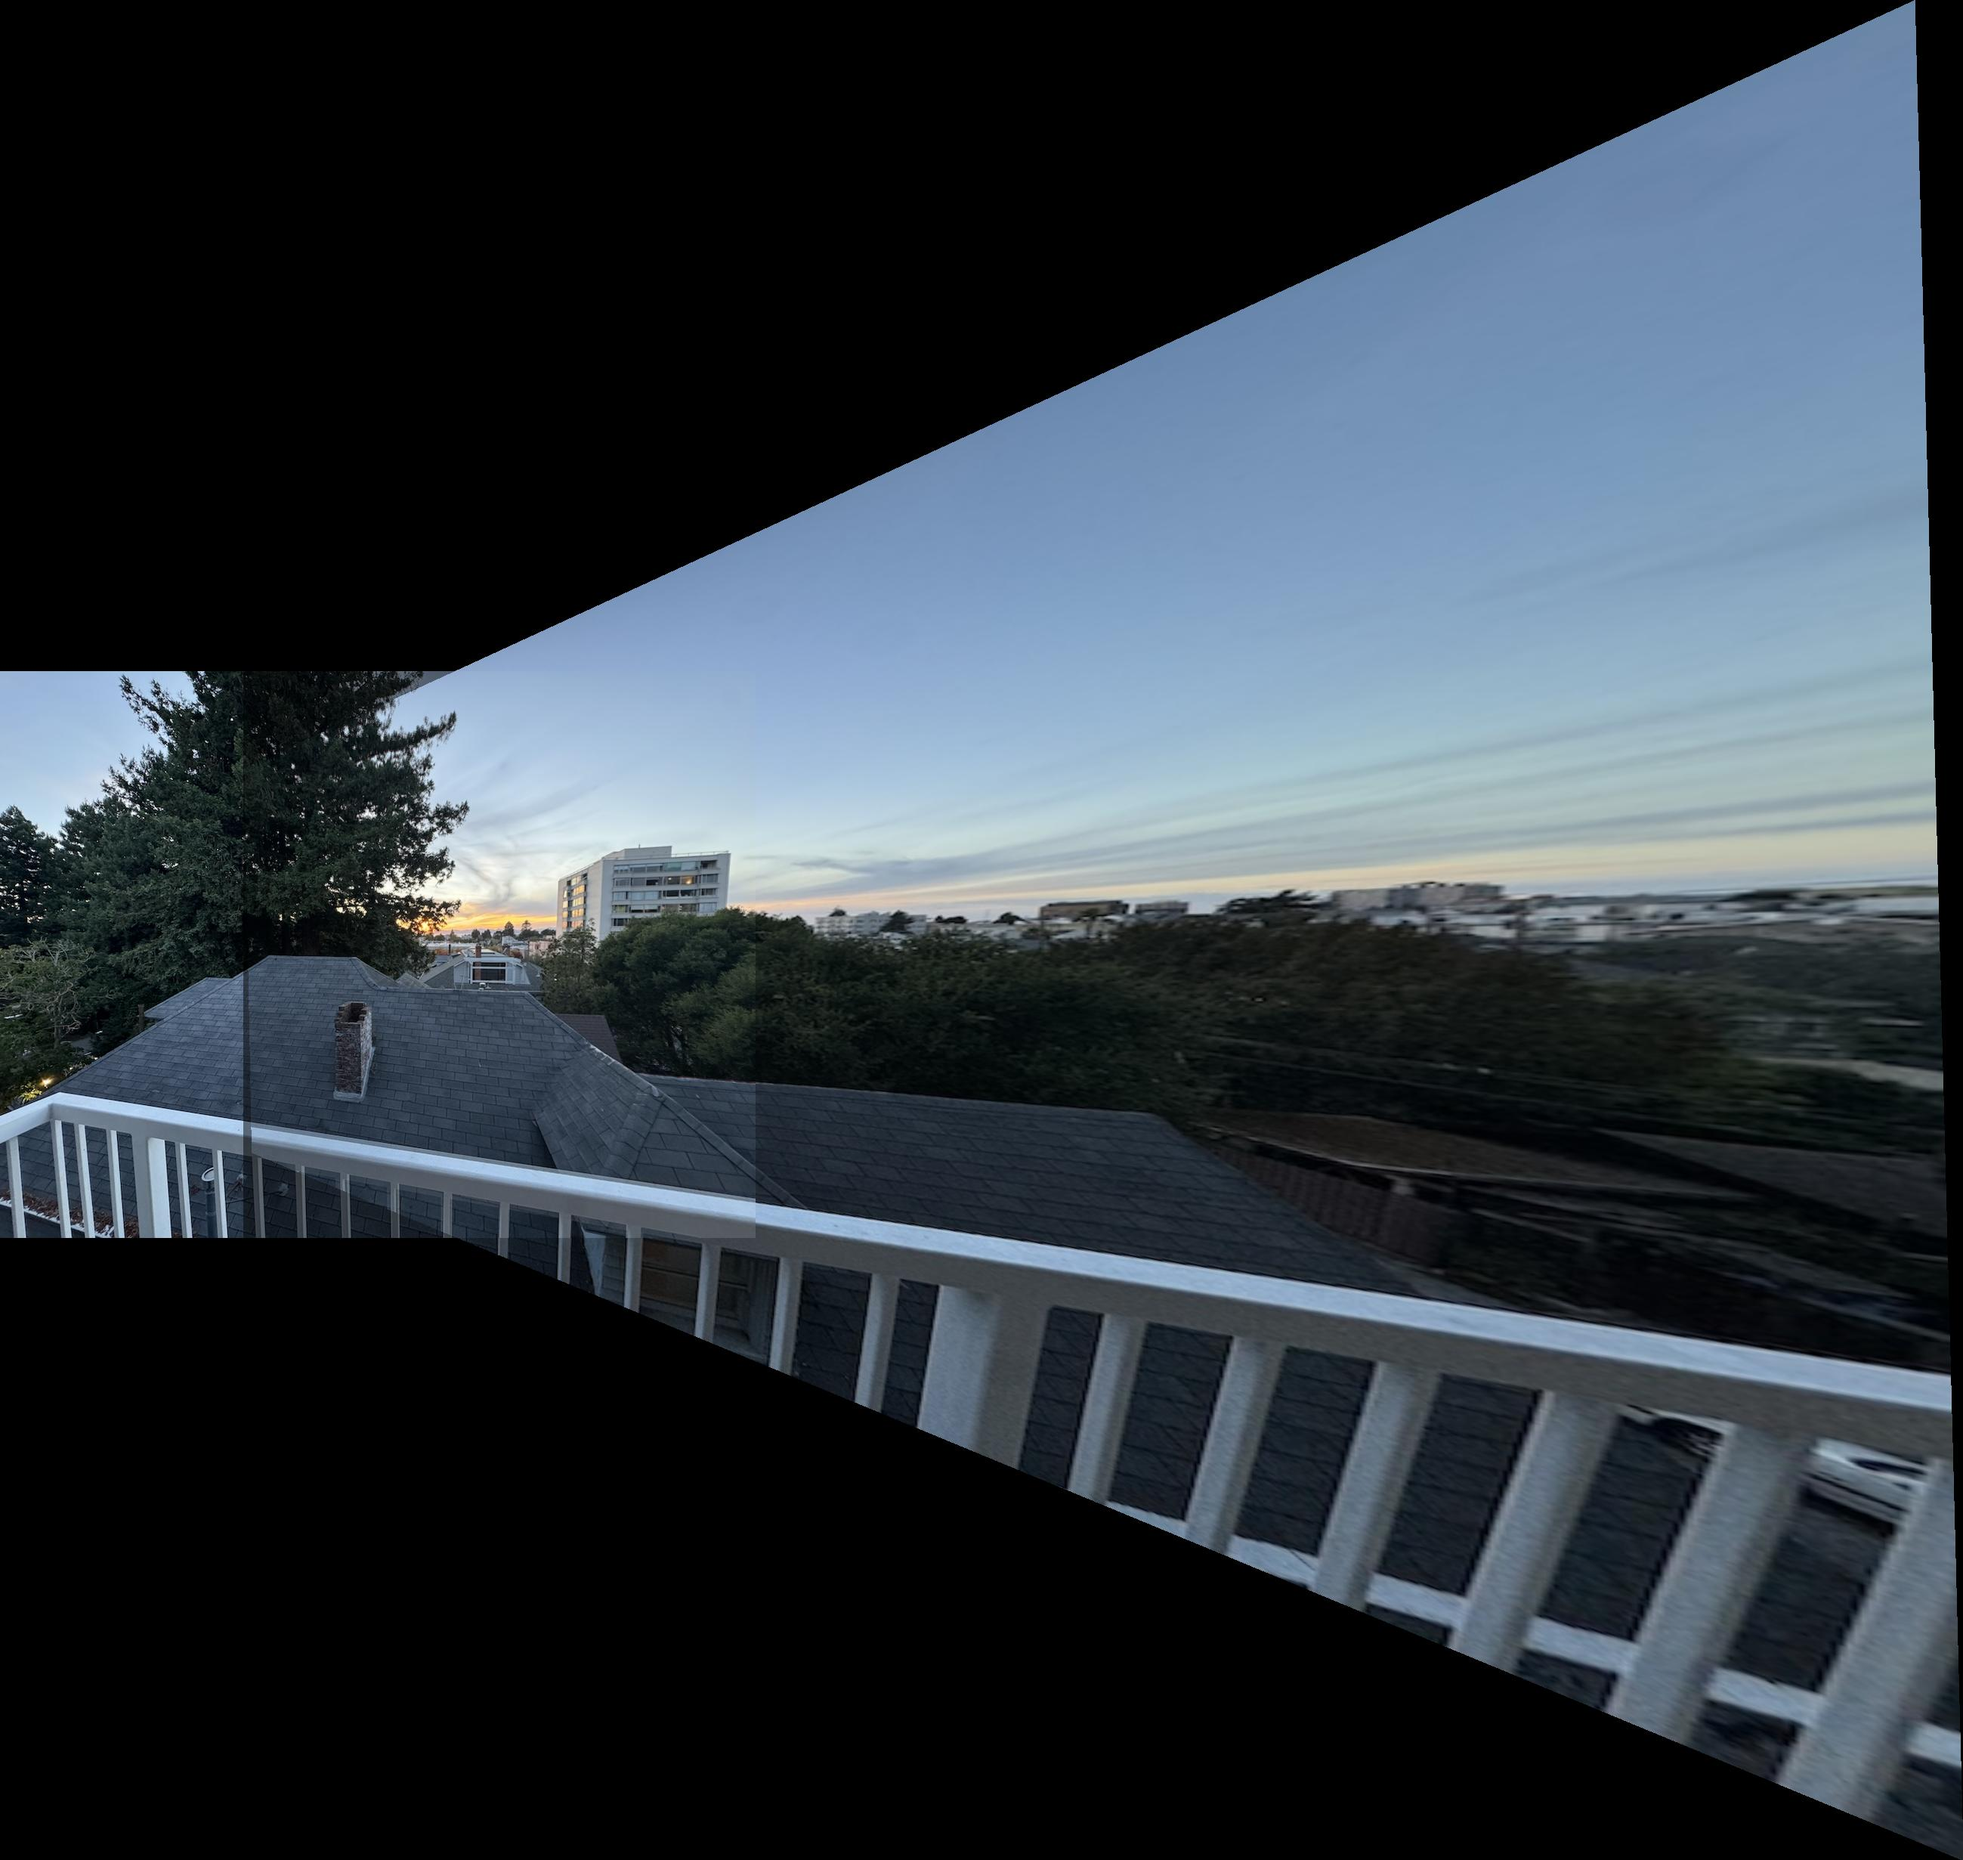
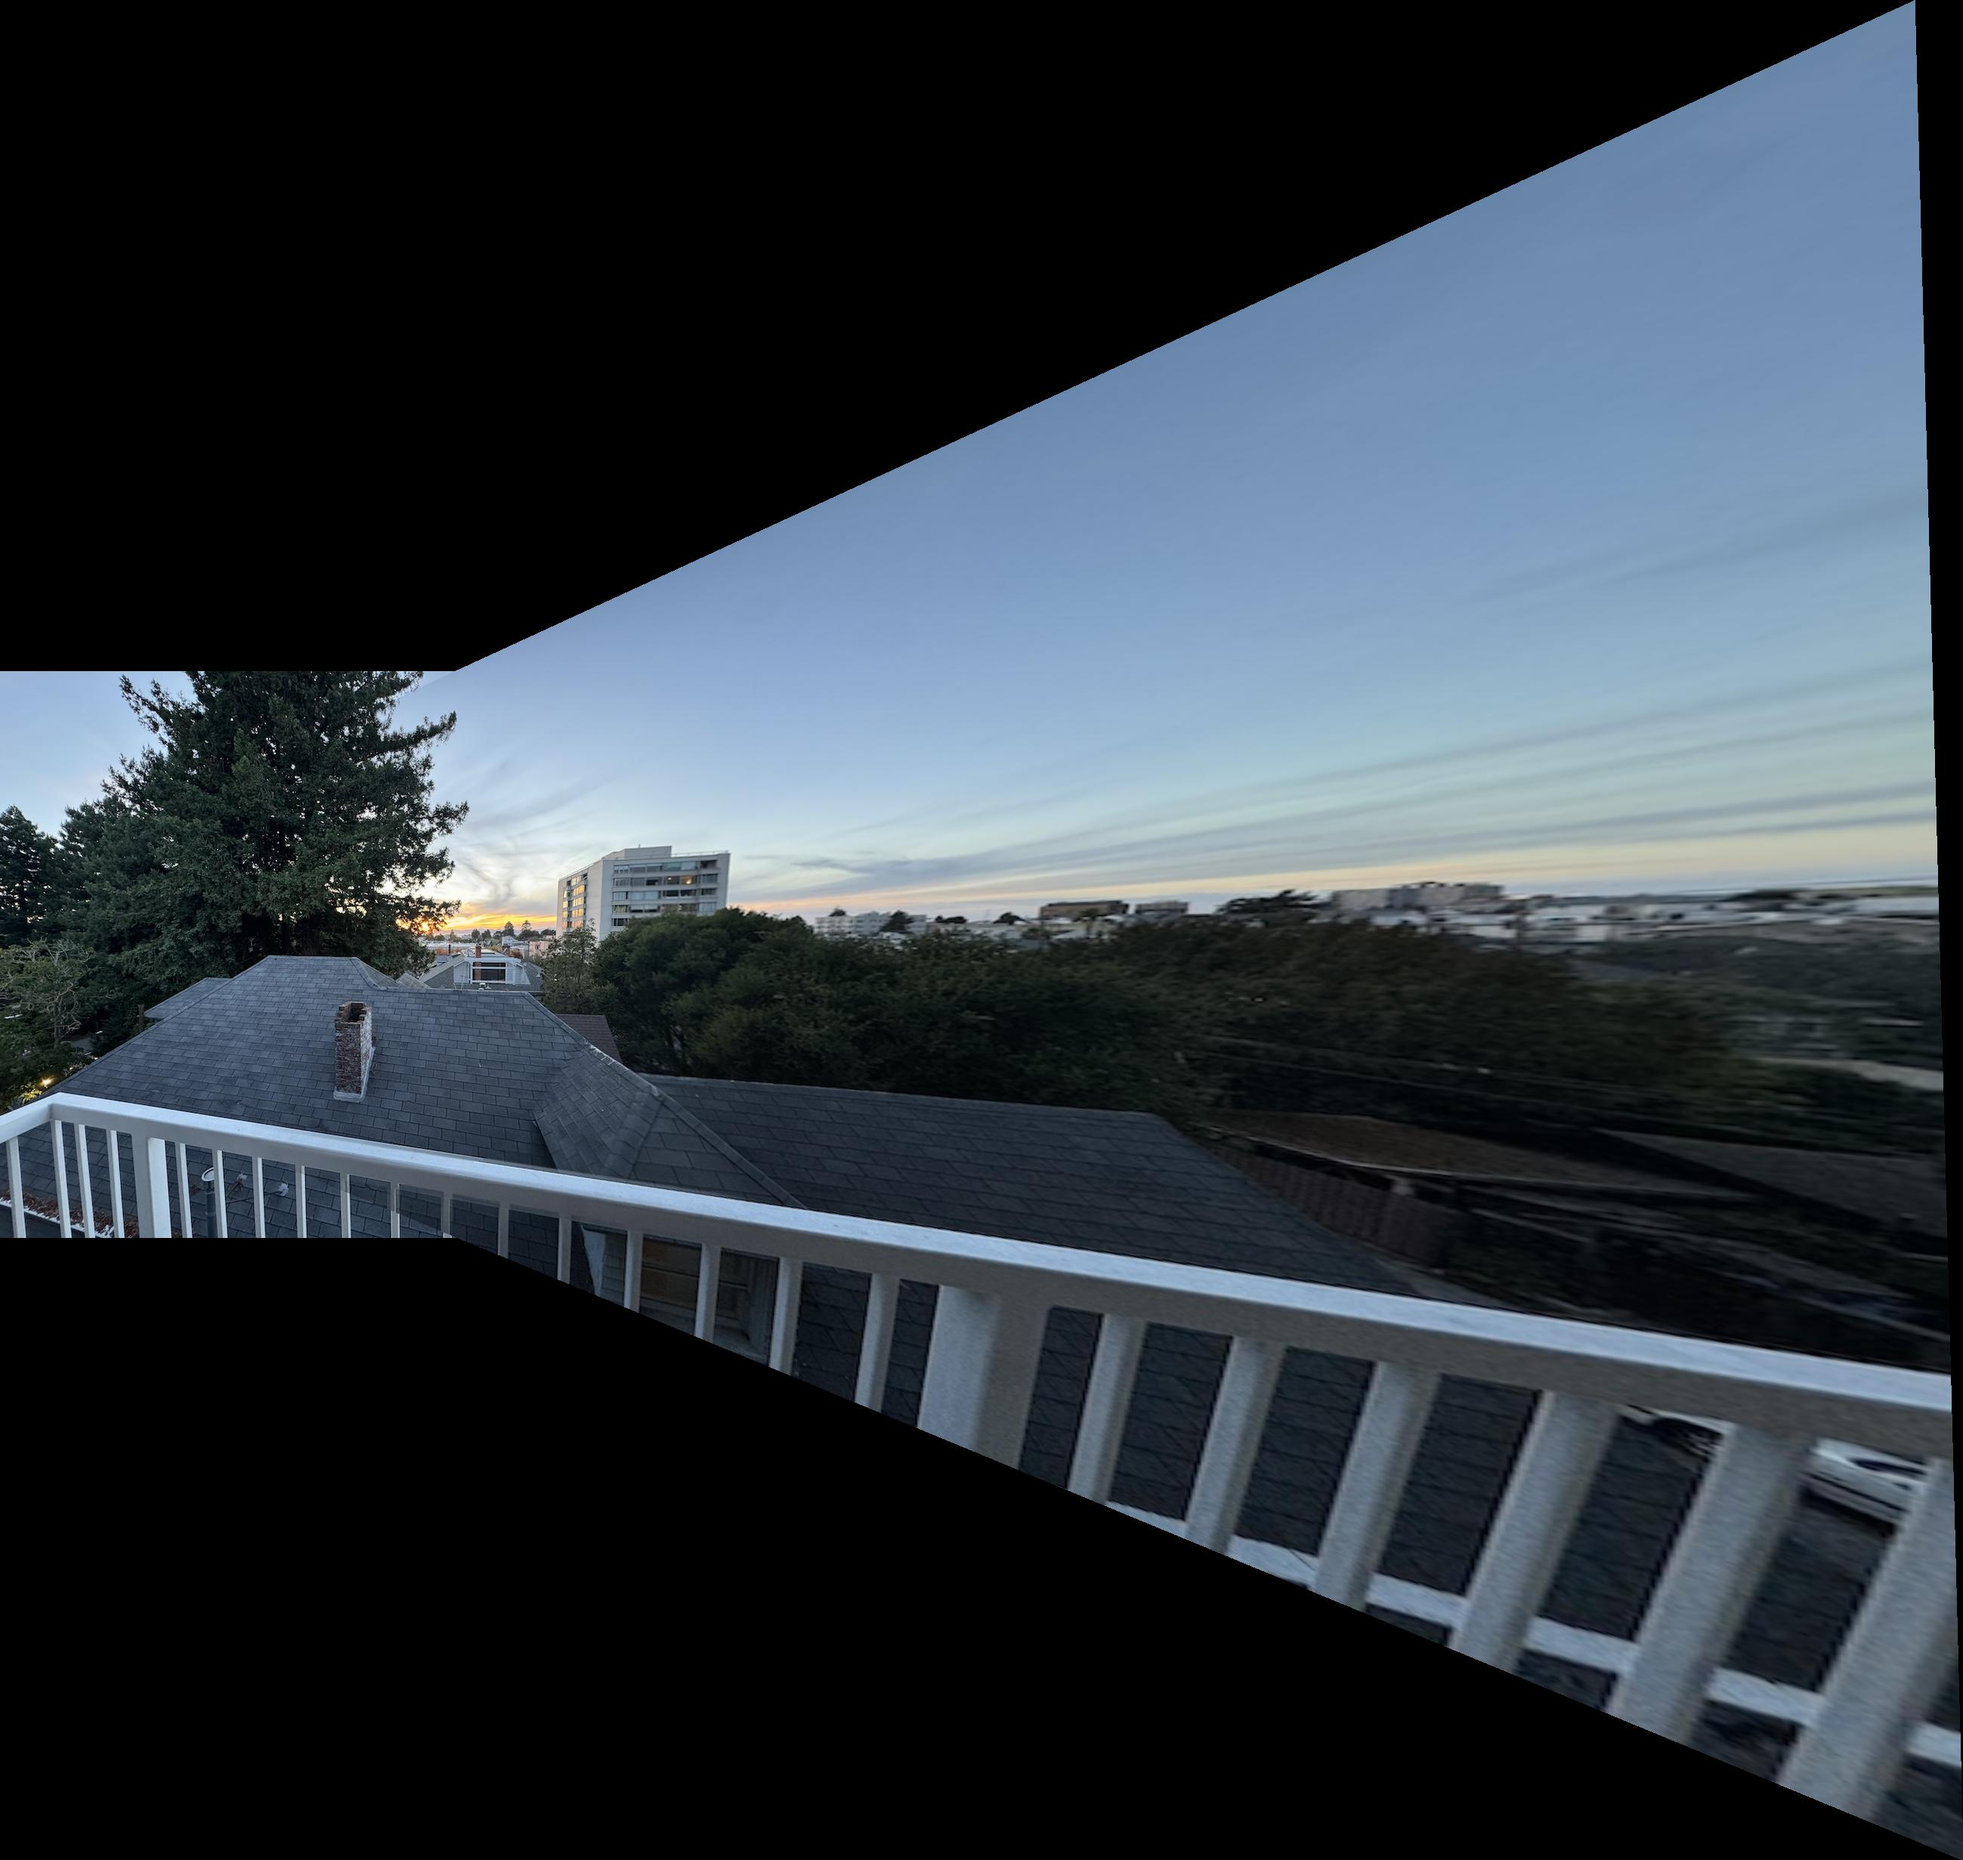
done with proj4a

Changed region(s): [[0.1247, 0.3397, 0.2494, 0.6794], [0.343, 0.6485, 0.3741, 0.6794]]

diff --git a/code/utils.py b/code/utils.py
@@ -1,8 +1,10 @@
 import numpy as np
 from scipy.interpolate import RegularGridInterpolator
 import matplotlib.pyplot as plt
-import skimage.io as skio
+from scipy.ndimage import distance_transform_edt
 import cv2
+from scipy.signal import convolve2d
+import skimage.io as skio
 
 
 # ===== Helpers ======
@@ -44,6 +46,45 @@ def display_img_with_keypoints(img, keypoints):
     x_coords, y_coords = zip(*keypoints)
     plt.scatter(x_coords, y_coords, color="red", marker="o", s=10)
     plt.show()
+
+
+def distance_transform(im):
+    mask = np.ones((im.shape[0], im.shape[1]), dtype=np.uint8)
+
+    mask[0, :] = 0
+    mask[-1, :] = 0
+    mask[:, 0] = 0
+    mask[:, -1] = 0
+
+    distance = distance_transform_edt(mask)
+    distance_rgb = np.stack([distance] * 3, axis=-1)
+
+    return distance_rgb
+
+
+def gaussian_blur(image, ksize=5, sigma=1):
+    gaussian_1d = cv2.getGaussianKernel(ksize, sigma)
+    gaussian_2d = np.outer(gaussian_1d, gaussian_1d.T)
+
+    if len(image.shape) == 2:  # Grayscale image
+        blurred_image = convolve2d(image, gaussian_2d, mode="same")
+
+    elif len(image.shape) == 3:  # RGB image
+        blurred_image = []
+        for i in range(3):
+            blurred_image.append(convolve2d(image[:, :, i], gaussian_2d, mode="same"))
+        blurred_image = np.dstack([channel for channel in blurred_image])
+
+    return blurred_image
+
+
+def pad_image(image, start_y, start_x, shape):
+    padded_image = np.zeros(shape, dtype=image.dtype)
+    end_y = start_y + image.shape[0]
+    end_x = start_x + image.shape[1]
+
+    padded_image[start_y:end_y, start_x:end_x, :] = image
+    return padded_image
 
 
 # ===== Algorithms =====
@@ -116,40 +157,65 @@ def rectify_image(im, im_pts, rect_pts):
 # Returns a mosaic of two images, where the second image is projected onto the first
 def build_mosaic(im1, im2, im1_pts, im2_pts):
     H = compute_homography(np.array(im2_pts), np.array(im1_pts))
-    warped_im2, dx, dy = warp_image(im2, H)
+    im2, dx, dy = warp_image(im2, H)
 
     im1_min_x, im1_max_x = 0, im1.shape[1] - 1
     im1_min_y, im1_max_y = 0, im1.shape[0] - 1
-    warped_im2_min_x, warped_im2_max_x = dx, dx + warped_im2.shape[1] - 1
-    warped_im2_min_y, warped_im2_max_y = dy, dy + warped_im2.shape[0] - 1
+    im2_min_x, im2_max_x = dx, dx + im2.shape[1] - 1
+    im2_min_y, im2_max_y = dy, dy + im2.shape[0] - 1
 
-    min_x = min(im1_min_x, warped_im2_min_x)
-    max_x = max(im1_max_x, warped_im2_max_x)
-    min_y = min(im1_min_y, warped_im2_min_y)
-    max_y = max(im1_max_y, warped_im2_max_y)
+    min_x = min(im1_min_x, im2_min_x)
+    max_x = max(im1_max_x, im2_max_x)
+    min_y = min(im1_min_y, im2_min_y)
+    max_y = max(im1_max_y, im2_max_y)
 
-    ret = np.zeros((max_y - min_y + 1, max_x - min_x + 1, 3))
+    ret = np.zeros((max_y - min_y + 1, max_x - min_x + 1, 3), dtype=np.float64)
     shift_x, shift_y = -min_x, -min_y
 
-    # Shift and place im1 into ret
-    ret[shift_y : shift_y + im1.shape[0], shift_x : shift_x + im1.shape[1]] = im1
+    # Create all needed padded data structures and overlap mask
+    im1_padded = pad_image(im1, shift_y, shift_x, ret.shape)
+    im2_padded = pad_image(im2, shift_y + dy, shift_x + dx, ret.shape)
 
-    # Shift and place warped_im2 into the correct position in ret
-    warped_y_start = warped_im2_min_y + shift_y
-    warped_y_end = warped_y_start + warped_im2.shape[0]
-    warped_x_start = warped_im2_min_x + shift_x
-    warped_x_end = warped_x_start + warped_im2.shape[1]
+    dt1_padded = pad_image(distance_transform(im1), shift_y, shift_x, ret.shape)
+    dt2_padded = pad_image(
+        distance_transform(im2), shift_y + dy, shift_x + dx, ret.shape
+    )
 
-    # Extract the region where warped_im2 will be placed
-    ret_region = ret[warped_y_start:warped_y_end, warped_x_start:warped_x_end]
+    epsilon = 1e-10  # A small value to prevent division by zero
+    dt1_padded /= np.max(dt1_padded) + epsilon
+    dt2_padded /= np.max(dt2_padded) + epsilon
 
-    # Find non-zero pixels in ret_region (overlapping pixels)
-    overlap_mask = ret_region != 0
+    im1_low_freq = gaussian_blur(im1)
+    im2_low_freq = gaussian_blur(im2)
 
-    # Average overlapping pixels
-    ret_region[overlap_mask] = (ret_region[overlap_mask] + warped_im2[overlap_mask]) / 2
+    im1_low_freq_padded = pad_image(im1_low_freq, shift_y, shift_x, ret.shape)
+    im2_low_freq_padded = pad_image(im2_low_freq, shift_y + dy, shift_x + dx, ret.shape)
+    im1_high_freq_padded = im1_padded - im1_low_freq_padded
+    im2_high_freq_padded = im2_padded - im2_low_freq_padded
 
-    # Assign non-overlapping pixels directly
-    ret_region[~overlap_mask] = warped_im2[~overlap_mask]
+    mask1 = np.sum(im1_padded, axis=-1) > 0
+    mask2 = np.sum(im2_padded, axis=-1) > 0
+    overlap_mask = np.logical_and(mask1, mask2)
 
-    return ret.astype(np.uint8)
+    # Fill in non-overlap regions
+    ret += im1_padded
+    ret += im2_padded
+    ret[overlap_mask] = 0
+
+    # For low frequencies of overlap, take weighted average based on distance transform
+    total_dt = dt1_padded + dt2_padded + epsilon
+    weight1 = dt1_padded / total_dt
+    weight2 = dt2_padded / total_dt
+    ret[overlap_mask] = (
+        im1_low_freq_padded[overlap_mask] * weight1[overlap_mask]
+        + im2_low_freq_padded[overlap_mask] * weight2[overlap_mask]
+    )
+
+    # For high frequencies of overlap, use the image with greater distance transform value
+    high_freq_mask = dt1_padded > dt2_padded
+    high_freq_result = np.zeros_like(ret)
+    high_freq_result[high_freq_mask] = im1_high_freq_padded[high_freq_mask]
+    high_freq_result[~high_freq_mask] = im2_high_freq_padded[~high_freq_mask]
+    ret[overlap_mask] += high_freq_result[overlap_mask]
+
+    return np.clip(ret, 0, 255).astype(np.uint8)

diff --git a/code/main.py b/code/main.py
@@ -127,5 +127,5 @@ def mosaic_blending():
 
 
 # Main
-image_rectification()
+# image_rectification()
 mosaic_blending()
